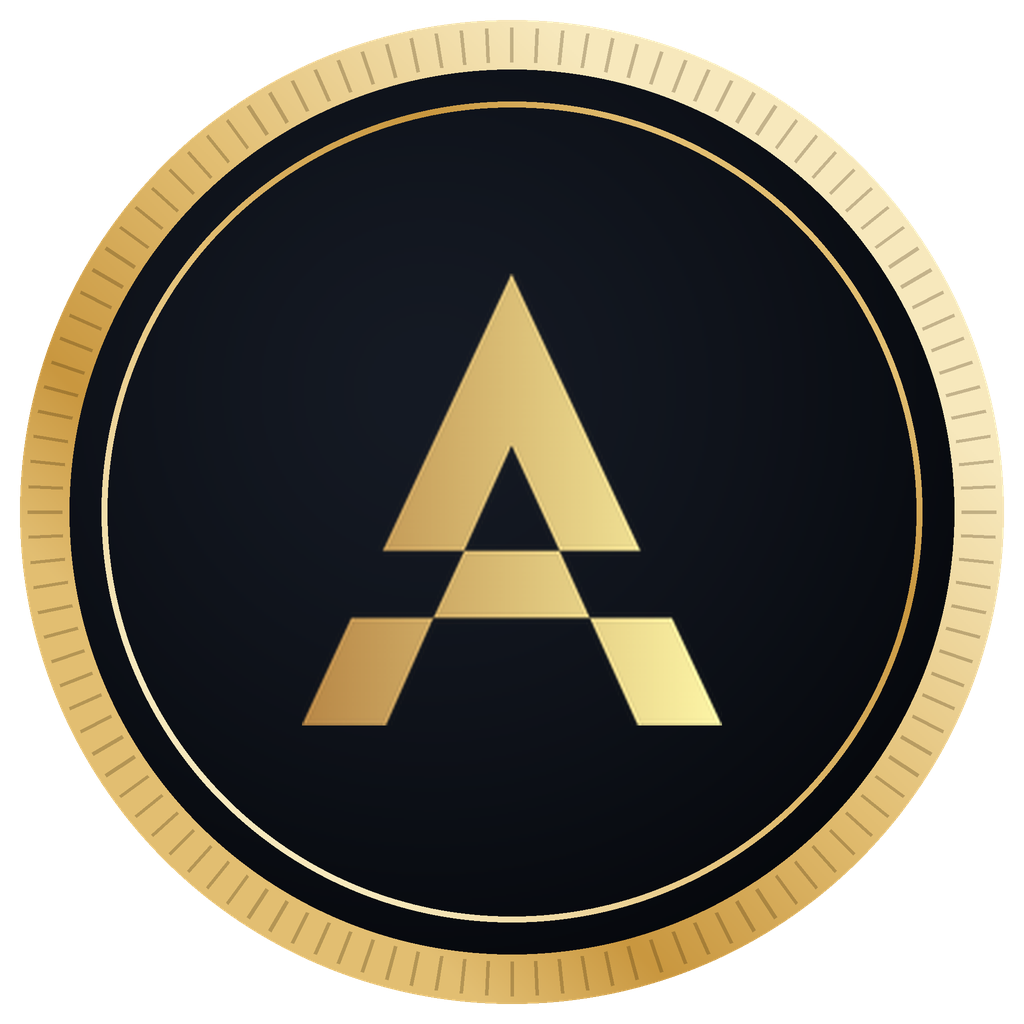
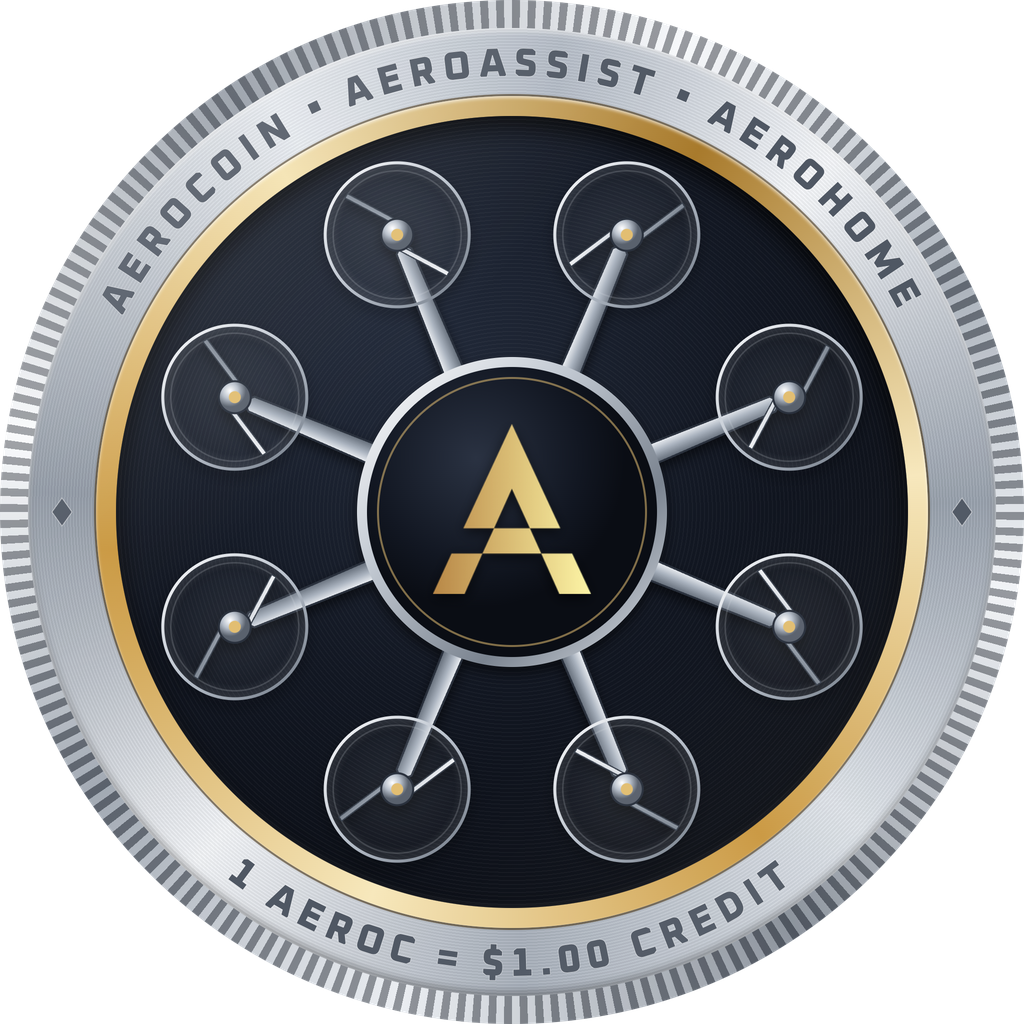
Drone coin and metallic silver styling
Claude-Session: https://claude.ai/code/session_011tU1sWJE9U8aPvZsodhiRM

diff --git a/index.html b/index.html
@@ -23,6 +23,8 @@
   --ink:#f4f6f8; --mist:#cdd2da; --mist-dim:#9aa1ad;
   --gold:#e2be72; --gold-hi:#f4e2b0; --sheen-light:#f7e8bc; --sheen-dark:#c9973f; --on-gold:#120c02;
   --edge:rgba(214,220,228,.13); --edge-gold:rgba(226,190,114,.42);
+  --silver-text:linear-gradient(180deg,#ffffff 0%,#e6eaef 38%,#9aa3ae 62%,#eef1f5 100%);
+  --silver-bar:linear-gradient(90deg,rgba(214,220,228,0),rgba(240,243,247,.55) 30%,rgba(154,163,174,.35) 60%,rgba(214,220,228,0));
   --display:Oxanium,"Arial Narrow",system-ui,sans-serif;
   --sans:"IBM Plex Sans",system-ui,-apple-system,"Segoe UI",sans-serif;
   --mono:"IBM Plex Mono",ui-monospace,Menlo,Consolas,monospace;
@@ -38,9 +40,9 @@ a:hover{color:var(--gold)}
 .wrap{max-width:1180px;margin:0 auto;padding:0 var(--gutter)}
 
 /* header */
-.site-header{position:sticky;top:0;z-index:10;background:rgba(5,7,11,.86);backdrop-filter:blur(10px);border-bottom:1px solid var(--edge)}
+.site-header{position:sticky;top:0;z-index:10;background:rgba(5,7,11,.86);backdrop-filter:blur(10px);border-bottom:1px solid transparent;border-image:var(--silver-bar) 1}
 .site-header .wrap{display:flex;align-items:center;gap:32px;height:72px}
-.brand{display:flex;align-items:center;gap:12px;text-decoration:none;color:var(--ink);font-family:var(--display);font-weight:800;font-size:22px;letter-spacing:.01em}
+.brand{display:flex;align-items:center;gap:12px;text-decoration:none;color:var(--ink);background:var(--silver-text);-webkit-background-clip:text;background-clip:text;-webkit-text-fill-color:transparent;font-family:var(--display);font-weight:800;font-size:22px;letter-spacing:.01em}
 .brand img{width:36px;height:36px}
 .site-nav{display:flex;gap:28px;margin-left:auto}
 .site-nav a{color:var(--mist);text-decoration:none;font-size:15px}
@@ -50,23 +52,29 @@ a:hover{color:var(--gold)}
 .btn{display:inline-flex;align-items:center;justify-content:center;min-height:48px;padding:0 24px;font-family:var(--display);font-weight:700;font-size:15px;letter-spacing:.04em;text-decoration:none;clip-path:polygon(10px 0,100% 0,100% calc(100% - 10px),calc(100% - 10px) 100%,0 100%,0 10px)}
 .btn-gold{background:linear-gradient(135deg,var(--sheen-light),var(--gold) 45%,var(--sheen-dark));color:var(--on-gold)}
 .btn-gold:hover{color:var(--on-gold);filter:brightness(1.06)}
-.btn-line{color:var(--ink);background:var(--hull-2)}
-.btn-line:hover{color:var(--ink);background:#1d2330}
+.btn-line{color:#0b1220;background:linear-gradient(180deg,#f5f7fa,#c3cad3 48%,#8e97a3 52%,#dfe4ea)}
+.btn-line:hover{color:#0b1220;filter:brightness(1.07)}
 .site-header .btn{min-height:42px;padding:0 18px;font-size:14px}
 
 /* hero */
-.hero{position:relative;overflow:hidden;background:radial-gradient(60% 80% at 78% 45%,#151a24 0%,#0b0e15 45%,var(--abyss) 75%)}
+.hero{position:relative;overflow:hidden;background:radial-gradient(42% 60% at 76% 42%,rgba(214,220,228,.10) 0%,transparent 60%),radial-gradient(60% 80% at 78% 45%,#151a24 0%,#0b0e15 45%,var(--abyss) 75%)}
 .hero .wrap{display:grid;grid-template-columns:minmax(0,1.05fr) minmax(0,.95fr);align-items:center;gap:48px;min-height:min(680px,calc(100vh - 72px));padding-top:56px;padding-bottom:72px}
-.hero h1{margin:0;font-family:var(--display);font-weight:800;color:var(--ink);font-size:clamp(42px,5.6vw,76px);line-height:1;letter-spacing:-.015em;max-width:15ch;text-wrap:balance}
+.hero h1{margin:0;font-family:var(--display);font-weight:800;color:var(--ink);filter:drop-shadow(0 2px 0 rgba(0,0,0,.6));font-size:clamp(42px,5.6vw,76px);line-height:1;letter-spacing:-.015em;max-width:15ch;text-wrap:balance}
+.hero h1 span{background:var(--silver-text);-webkit-background-clip:text;background-clip:text;-webkit-text-fill-color:transparent;-webkit-box-decoration-break:clone;box-decoration-break:clone}
 .hero .lead{margin:28px 0 0;font-size:clamp(18px,1.6vw,21px);line-height:1.55;max-width:34em}
 .hero .actions{display:flex;flex-wrap:wrap;gap:12px;margin-top:36px}
 .coin-stage{position:relative;justify-self:center;width:min(440px,80vw);aspect-ratio:1;perspective:1200px}
 .coin-stage::after{content:"";position:absolute;inset:8% 8% -6%;border-radius:50%;background:radial-gradient(closest-side,rgba(226,190,114,.16),transparent);z-index:-1}
+.tilt{position:relative;width:100%;height:100%;transform:rotateX(var(--rx,0deg)) rotateY(var(--ry,0deg));transform-style:preserve-3d;transition:transform .25s ease-out}
 .coin{width:100%;height:100%;filter:drop-shadow(0 40px 60px rgba(0,0,0,.85));animation:arrive 1.6s cubic-bezier(.2,.7,.2,1) both}
+.glint{position:absolute;inset:1%;border-radius:50%;pointer-events:none;mix-blend-mode:screen;background:radial-gradient(circle at var(--gx,30%) var(--gy,25%),rgba(255,255,255,.38),rgba(255,255,255,.06) 28%,transparent 48%);animation:fadein 1.6s both}
+@keyframes fadein{0%,60%{opacity:0}100%{opacity:1}}
 @keyframes arrive{0%{transform:rotateY(-540deg) scale(.82);opacity:0}35%{opacity:1}100%{transform:rotateY(0) scale(1);opacity:1}}
 
 /* value line under hero */
-.terms{border-top:1px solid var(--edge);border-bottom:1px solid var(--edge);background:var(--deep)}
+.terms{position:relative;background:repeating-linear-gradient(90deg,rgba(255,255,255,.018) 0 1px,transparent 1px 3px),linear-gradient(180deg,#171c26,#0b0f16)}
+.terms::before,.terms::after{content:"";position:absolute;left:0;right:0;height:1px;background:var(--silver-bar)}
+.terms::before{top:0}.terms::after{bottom:0}
 .terms dl{margin:0;display:grid;grid-template-columns:repeat(4,minmax(0,1fr))}
 .terms dl>div{padding:28px 24px;border-left:1px solid var(--edge)}
 .terms dl>div:first-child{border-left:0;padding-left:0}
@@ -77,25 +85,26 @@ a:hover{color:var(--gold)}
 /* sections */
 section{padding:112px 0}
 .section-head{max-width:640px;margin-bottom:56px}
-.section-head h2{margin:0;font-family:var(--display);font-weight:800;color:var(--ink);font-size:clamp(34px,4.2vw,48px);line-height:1.05}
+.section-head h2{margin:0;font-family:var(--display);font-weight:800;color:var(--ink);background:var(--silver-text);-webkit-background-clip:text;background-clip:text;-webkit-text-fill-color:transparent;font-size:clamp(34px,4.2vw,48px);line-height:1.05}
 .section-head p{margin:16px 0 0;font-size:18px}
 
 /* steps: a real sequence */
 .steps{list-style:none;margin:0;padding:0;display:grid;grid-template-columns:repeat(3,minmax(0,1fr));gap:0;counter-reset:step;position:relative}
-.steps::before{content:"";position:absolute;top:27px;left:28px;right:calc(33.333% - 28px);height:1px;background:linear-gradient(90deg,var(--sheen-light),var(--gold) 50%,var(--sheen-dark))}
+.steps::before{content:"";position:absolute;top:27px;left:28px;right:calc(33.333% - 28px);height:2px;background:linear-gradient(90deg,#eef1f5,#8e97a3 50%,#dfe4ea)}
 .steps li{position:relative;padding-right:40px;counter-increment:step}
-.steps li::before{content:counter(step);display:grid;place-items:center;width:56px;height:56px;margin-bottom:28px;background:var(--abyss);border:1px solid var(--edge-gold);border-radius:50%;font-family:var(--display);font-weight:800;font-size:22px;color:var(--gold);position:relative}
+.steps li::before{content:counter(step);display:grid;place-items:center;width:56px;height:56px;margin-bottom:28px;background:radial-gradient(circle,#121722 0 22px,transparent 22.5px),repeating-conic-gradient(rgba(20,24,32,.45) 0 6deg,rgba(255,255,255,.2) 6deg 12deg),conic-gradient(#f5f7fa,#8e97a3 25%,#eef1f5 50%,#7a838f 75%,#f5f7fa);box-shadow:0 6px 14px rgba(0,0,0,.6);border-radius:50%;font-family:var(--display);font-weight:800;font-size:22px;color:var(--gold);position:relative}
 .steps h3{margin:0;font-family:var(--display);font-weight:700;font-size:28px;color:var(--ink)}
 .steps p{margin:12px 0 0;max-width:30ch}
 
 /* where to spend */
-.spend{background:var(--deep);border-top:1px solid var(--edge)}
+.spend{position:relative;background:var(--deep)}
+.spend::before{content:"";position:absolute;top:0;left:0;right:0;height:1px;background:var(--silver-bar)}
 .merchants{display:grid;grid-template-columns:repeat(2,minmax(0,1fr));gap:16px}
-.merchant{display:flex;flex-direction:column;background:var(--hull);border:1px solid var(--edge);overflow:hidden}
+.merchant{display:flex;flex-direction:column;border:1px solid transparent;background:linear-gradient(var(--hull),var(--hull)) padding-box,linear-gradient(160deg,rgba(245,247,250,.55),rgba(214,220,228,.08) 35%,rgba(214,220,228,.05) 65%,rgba(226,190,114,.45)) border-box;overflow:hidden}
 .merchant .photo{aspect-ratio:16/8;background:#0b0e15 center/cover no-repeat}
 .merchant .photo.aircraft{background-image:linear-gradient(180deg,rgba(14,18,26,0) 55%,var(--hull)),url(assets/aircraft.jpg)}
 .merchant .photo.home{display:grid;place-items:center;background:radial-gradient(70% 90% at 50% 60%,#151a24,#0b0e15)}
-.merchant .photo.home svg{width:120px;height:120px;color:var(--gold)}
+.merchant .photo.home svg{width:120px;height:120px;color:#dfe4ea}
 .merchant .body{padding:28px 32px 32px;display:flex;flex-direction:column;gap:12px;flex-grow:1}
 .merchant h3{margin:0;font-family:var(--display);font-weight:700;font-size:30px;line-height:1.1;color:var(--ink)}
 .merchant p{margin:0}
@@ -131,7 +140,7 @@ section{padding:112px 0}
   .terms dl>div:nth-child(3){border-left:0;padding-left:0}
   .terms dl>div:nth-child(n+3){border-top:1px solid var(--edge)}
   .steps{grid-template-columns:1fr;gap:40px}
-  .steps::before{top:28px;bottom:28px;left:27px;right:auto;width:1px;height:auto;background:linear-gradient(180deg,var(--sheen-light),var(--gold) 50%,var(--sheen-dark))}
+  .steps::before{top:28px;bottom:28px;left:27px;right:auto;width:2px;height:auto;background:linear-gradient(180deg,#eef1f5,#8e97a3 50%,#dfe4ea)}
   .steps li{padding:0 0 0 84px}
   .steps li::before{position:absolute;left:0;top:-6px;margin:0}
   .merchants{grid-template-columns:1fr}
@@ -151,7 +160,8 @@ section{padding:112px 0}
 }
 @media (prefers-reduced-motion:reduce){
   html{scroll-behavior:auto}
-  .coin{animation:none}
+  .coin,.glint{animation:none}
+  .tilt{transition:none}
   .qa summary::after{transition:none}
 }
 </style>
@@ -174,7 +184,7 @@ section{padding:112px 0}
   <div class="hero">
     <div class="wrap">
       <div>
-        <h1>Store credit for AeroAssist and AeroHome.</h1>
+        <h1><span>Store credit for AeroAssist and AeroHome.</span></h1>
         <p class="lead">AeroCoin is credit you earn on purchases and rewards, then spend on products and services from either company. Every coin is worth $1.00 of credit, and your balance is recorded on the Base blockchain.</p>
         <div class="actions">
           <a class="btn btn-gold" href="https://aeroassist.us">Join AeroAssist rewards</a>
@@ -182,7 +192,10 @@ section{padding:112px 0}
         </div>
       </div>
       <div class="coin-stage">
-        <img class="coin" src="assets/coin-1024.png" alt="The AeroCoin: a gold A on a graphite coin with a gold rim" width="440" height="440">
+        <div class="tilt">
+          <img class="coin" src="assets/coin-1024.png" alt="The AeroCoin: a silver coin with a gold ring, an eight-rotor drone on its face and the gold AeroAssist A on the drone's hub" width="440" height="440">
+          <div class="glint" aria-hidden="true"></div>
+        </div>
       </div>
     </div>
   </div>
@@ -310,5 +323,19 @@ section{padding:112px 0}
   </div>
 </footer>
 
+<script>
+(function(){
+  var stage=document.querySelector('.coin-stage');
+  if(!stage||!window.matchMedia||window.matchMedia('(prefers-reduced-motion: reduce)').matches||!window.matchMedia('(pointer: fine)').matches)return;
+  var tilt=stage.querySelector('.tilt'),glint=stage.querySelector('.glint'),hero=document.querySelector('.hero');
+  hero.addEventListener('pointermove',function(e){
+    var r=stage.getBoundingClientRect(),x=(e.clientX-r.left)/r.width-.5,y=(e.clientY-r.top)/r.height-.5;
+    x=Math.max(-.8,Math.min(.8,x));y=Math.max(-.8,Math.min(.8,y));
+    tilt.style.setProperty('--ry',(x*16).toFixed(2)+'deg');tilt.style.setProperty('--rx',(-y*16).toFixed(2)+'deg');
+    glint.style.setProperty('--gx',(50+x*60).toFixed(1)+'%');glint.style.setProperty('--gy',(50+y*60).toFixed(1)+'%');
+  });
+  hero.addEventListener('pointerleave',function(){tilt.style.setProperty('--ry','0deg');tilt.style.setProperty('--rx','0deg');});
+})();
+</script>
 </body>
 </html>
